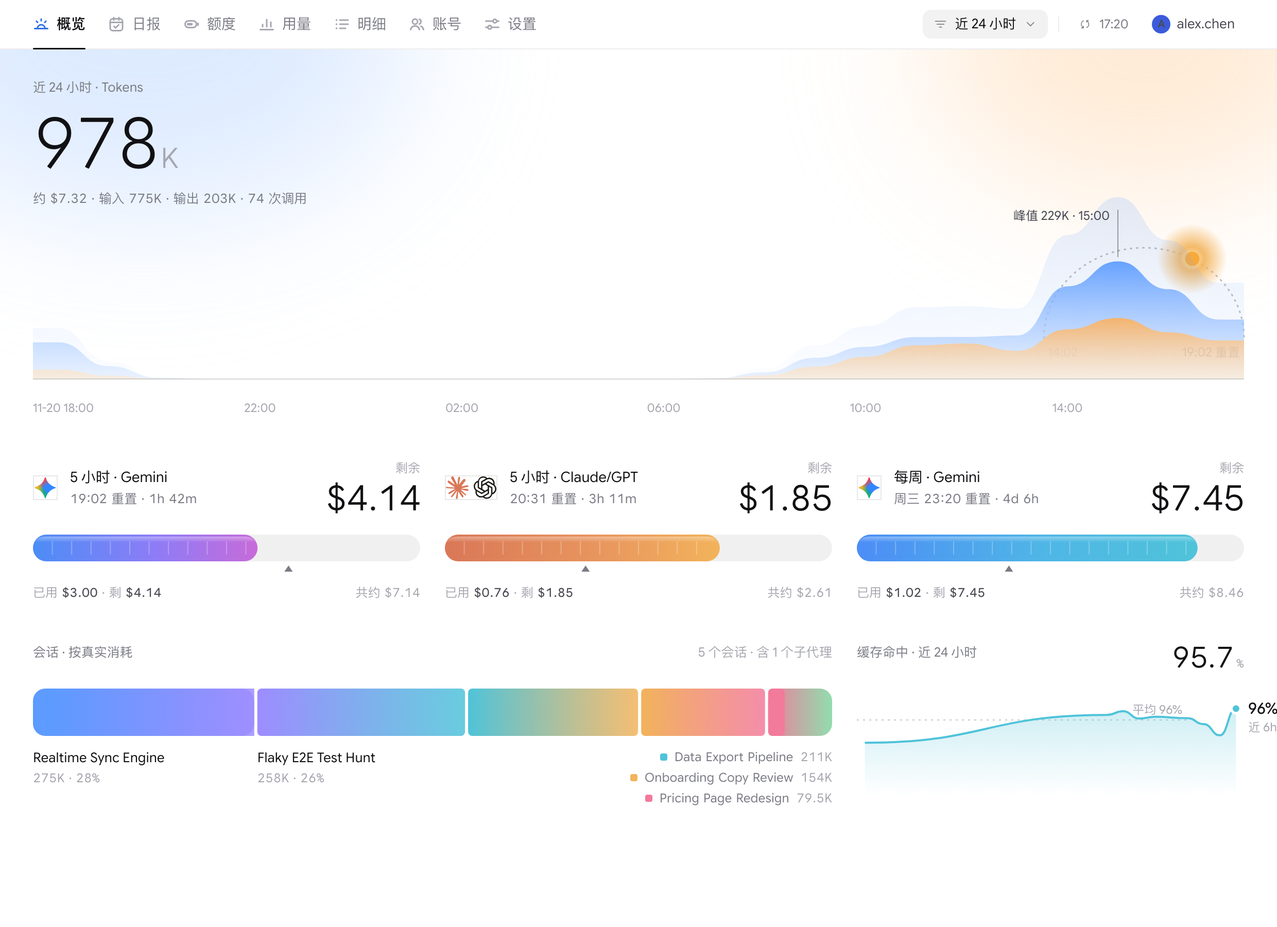
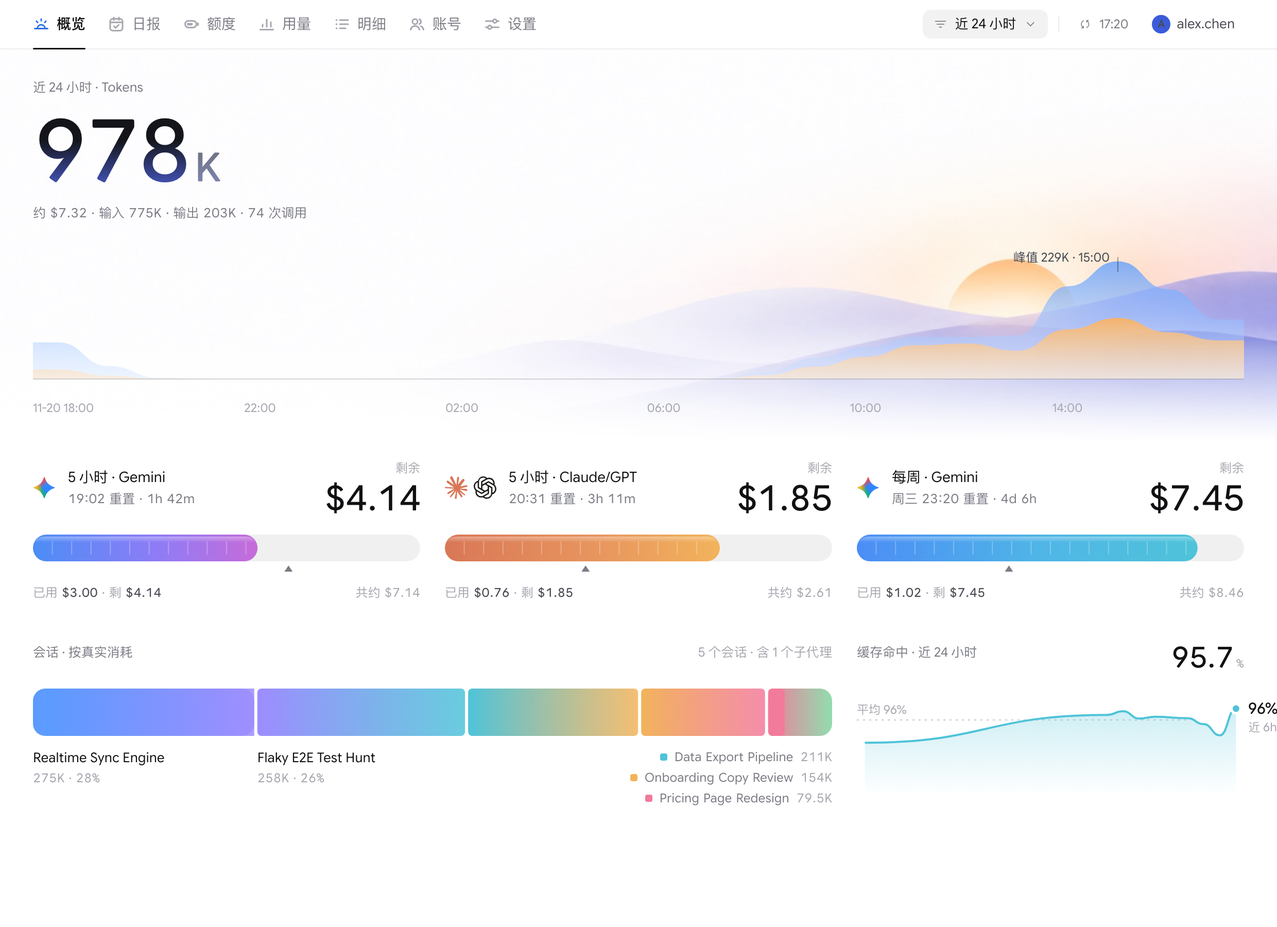
插画主视觉、更有分量的大数字、账号空状态、精简 README（浅色截图）
- 概览与账号页使用生成插画（深 / 浅两版），替换 SVG 太阳与星空
- 大数字加粗、渐变、单位同字重
- 账号页无其他账号时显示插画和三步引导
- README 只保留核心：一句话、四个要点、AI 安装提示词、四张浅色截图

diff --git a/plugin/dist/sidecars/buddy_panel/app.js b/plugin/dist/sidecars/buddy_panel/app.js
@@ -201,7 +201,7 @@ const G3 = { gemini: ['#4C8DF6', '#8E7CF6', '#C76BD9'], claude: ['#D97757', '#E8
 const PAL = ['#5B9BFF', '#9D8CFF', '#4FC3D9', '#F2B35B', '#F27A9B', '#7FD6A0'];
 const grayG = () => isLight() ? ['#D5D6DC', '#DCDDE2', '#E3E4E8'] : ['#3A3B42', '#43444B', '#4C4D54'];
 const winG = w => w.kind === '每周' ? G3.week : w.provs.has('gemini') ? G3.gemini : G3.claude;
-const tiles = logos => `<span class="tile">${logos.map(l => `<img src="${LOGO[l]}" style="width:22px;height:22px;display:block">`).join('')}</span>`;
+const tiles = logos => `<span class="lgs">${logos.map(l => `<img src="${LOGO[l]}" style="width:22px;height:22px;display:block">`).join('')}</span>`;
 const winLogos = w => [...w.provs].sort((a, b) => a === 'claude' ? -1 : 1);
 let _cid = 0;
 // 渐变胶囊：f = 填充比例；win = 窗口时间（小三角）
@@ -308,7 +308,7 @@ function landscape(bs, rs, W, H = 330) {
       <text x="${a0 + 2 * ar - 4}" y="${G - 22}" text-anchor="end" style="fill:var(--fg-2);font-size:12px">${winAt(k5)} 重置</text><text x="${a0 + 4}" y="${G - 22}" style="fill:var(--fg-4);font-size:12px">${atLocal(t0)}</text>`;
   }
   let stars = ''; if (!L2) { let sd = 7; const rnd = () => (sd = (sd * 9301 + 49297) % 233280) / 233280; for (let i = 0; i < 46; i++) stars += `<circle cx="${(rnd() * W * .78 + 20).toFixed(0)}" cy="${(rnd() * 150 + 8).toFixed(0)}" r="${(rnd() + .4).toFixed(1)}" fill="#fff" opacity="${(rnd() * .35 + .08).toFixed(2)}"/>`; }
-  const pk = tot.indexOf(Math.max(...tot)), px = X(pk), py = G - smooth(inp, n > 30 ? 1.1 : .8)[pk] / mx * sc - 4;
+  const pk = tot.indexOf(Math.max(...tot)), px = X(pk), py = G - smooth(inp, n > 30 ? 1.1 : .8)[pk] / mx * sc - 4; const ly = Math.max(178, py - 36), l0 = Math.max(188, py - 46);
   const C = L2 ? { f0: '#7FB0FF', f1: .22, m1: '#D6E6FF', o1: '#FFE9CF', m2: .5, o2: .6 } : { f0: '#5B9BFF', f1: .16, m1: '#2F5FB8', o1: '#D95926', m2: .25, o2: .35 };
   const every = Math.max(1, Math.ceil(n / 6)), labels = bs.map((b, i) => i % every === 0 && i ? `<text x="${X(i)}" y="${H - 6}" text-anchor="middle">${b.label}${b.label.length <= 2 ? ':00' : ''}</text>` : '').join('');
   const hits = bs.map((b, i) => `<rect class="hb" x="${(i / n * W).toFixed(1)}" y="0" width="${(W / n).toFixed(1)}" height="${G}" fill="transparent" ${tipA(`<span class="dim">${b.long}</span><br>${sw('#5B9BFF')}新增输入 ${fmt(g[i].in)}<br>${sw('#F2B35B')}输出 ${fmt(g[i].out)}${g[i].n ? `<br><span class="dim">缓存命中 ${Math.round(pct(g[i].cache, g[i].cache + g[i].in) * 100)}% · ${g[i].n} 次 · 约 ${fUSD(g[i].cost)} · 点击查看明细</span>` : ''}`)} ${g[i].n ? A('bucket', b.a + ',' + b.b) : ''}/>`).join('');
@@ -317,9 +317,8 @@ function landscape(bs, rs, W, H = 330) {
     <linearGradient id="mid" x1="0" y1="0" x2="0" y2="1"><stop offset="0" stop-color="#5B9BFF" stop-opacity=".92"/><stop offset="1" stop-color="${C.m1}" stop-opacity="${C.m2}"/></linearGradient>
     <linearGradient id="fr" x1="0" y1="0" x2="0" y2="1"><stop offset="0" stop-color="${L2 ? '#F7B267' : '#F2B35B'}" stop-opacity=".95"/><stop offset="1" stop-color="${C.o1}" stop-opacity="${C.o2}"/></linearGradient>
     <radialGradient id="sun" cx="50%" cy="50%" r="50%"><stop offset="0" stop-color="#FFE6B0"/><stop offset=".35" stop-color="#F2B35B" stop-opacity=".9"/><stop offset="1" stop-color="#F2B35B" stop-opacity="0"/></radialGradient></defs>
-    ${stars}${sun}
-    <path d="${ridge(tot, 1.25)}" fill="url(#far)"/><path d="${ridge(inp, 1)}" fill="url(#mid)"/><path d="${ridge(out.map(v => v * 2.2), 1)}" fill="url(#fr)"/>
-    ${tot[pk] > 0 ? `<line x1="${px}" x2="${px}" y1="${py - 46}" y2="${py}" style="stroke:${ink(.35)}"/><text x="${px > W - 180 ? px - 8 : px + 8}" y="${py - 36}" text-anchor="${px > W - 180 ? 'end' : 'start'}" style="fill:var(--fg-2);font-size:12px">峰值 ${fmt(tot[pk])} · ${bs[pk].long.split(' ').pop().split('–')[0]}</text>` : `<text x="${W / 2}" y="${G / 2}" text-anchor="middle" style="fill:var(--fg-4);font-size:13px">这段时间没有调用</text>`}
+    <path d="${ridge(inp, 1)}" fill="url(#mid)" opacity=".82"/><path d="${ridge(out.map(v => v * 2.2), 1)}" fill="url(#fr)"/>
+    ${tot[pk] > 0 ? `<line x1="${px}" x2="${px}" y1="${l0}" y2="${py}" style="stroke:${ink(.35)}"/><text x="${px > W - 180 ? px - 8 : px + 8}" y="${ly}" text-anchor="${px > W - 180 ? 'end' : 'start'}" style="fill:var(--fg-2);font-size:12px">峰值 ${fmt(tot[pk])} · ${bs[pk].long.split(' ').pop().split('–')[0]}</text>` : `<text x="${W / 2}" y="${G / 2}" text-anchor="middle" style="fill:var(--fg-4);font-size:13px">这段时间没有调用</text>`}
     <line x1="0" x2="${W}" y1="${G}" y2="${G}" style="stroke:${ink(.16)}"/>
     <text x="0" y="${H - 6}">${bs[0].long.split('–')[0]}</text>${labels}
     ${hits}</svg>`;
@@ -347,7 +346,7 @@ function cacheLine(bs, rs, W, H = 104) {
   if (pts.length < 2) return `<div class="cap" style="height:${H}px;display:grid;place-items:center">数据不足</div>`;
   const d = curve(pts), e = pts[pts.length - 1];
   return `<svg width="${W - 64}" height="${H}" style="display:block;overflow:visible;font-size:11.5px"><defs><linearGradient id="cl" x1="0" y1="0" x2="0" y2="1"><stop offset="0" stop-color="#4FC3D9" stop-opacity=".28"/><stop offset="1" stop-color="#4FC3D9" stop-opacity="0"/></linearGradient></defs>
-    <line x1="0" x2="${W - 56}" y1="${Y(avg)}" y2="${Y(avg)}" style="stroke:${ink(.22)}" stroke-dasharray="2 4"/><text x="${W - 60}" y="${Y(avg) - 6}" text-anchor="end" style="fill:var(--fg-4)">平均 ${pctS(avg)}</text>
+    <line x1="0" x2="${W - 56}" y1="${Y(avg)}" y2="${Y(avg)}" style="stroke:${ink(.22)}" stroke-dasharray="2 4"/>${Math.abs(Y(avg) - e[1]) > 18 ? `<text x="${W - 70}" y="${Y(avg) - 6}" text-anchor="end" style="fill:var(--fg-4)">平均 ${pctS(avg)}</text>` : `<text x="0" y="${Y(avg) - 6}" style="fill:var(--fg-4)">平均 ${pctS(avg)}</text>`}
     <path d="${d}L${e[0]},${H}L${pts[0][0]},${H}Z" fill="url(#cl)"/><path d="${d}" fill="none" stroke="#4FC3D9" stroke-width="2"/>
     <circle cx="${e[0]}" cy="${e[1]}" r="4.5" fill="#4FC3D9" style="stroke:var(--background)" stroke-width="2.5"/>
     ${rh != null ? `<text x="${e[0] + 12}" y="${e[1] + 5}" style="fill:var(--fg);font-size:15px;font-weight:450">${pctS(rh)}</text><text x="${e[0] + 12}" y="${e[1] + 22}" style="fill:var(--fg-4)">近 6h</text>` : ''}</svg>`;
@@ -355,8 +354,8 @@ function cacheLine(bs, rs, W, H = 104) {
 function vOverview() {
   const rs = rowsIn(), t = agg(rs), bs = buckets(), hit = pct(t.cache, t.cache + t.in), W = CW();
   const ss = groupBy(rs, 'root').sort((x, y) => y.in + y.out - x.in - x.out), real = t.in + t.out;
-  return shell(sub(filters()) + `<div class="body h2"><div class="pg">${aura()}
-    <section class="rw" style="height:330px"><div class="md" style="grid-column:1/-1">${landscape(bs, rs, W)}
+  return shell(sub(filters()) + `<div class="body h2"><div class="pg">
+    <section class="rw hero-sec" style="height:330px"><img class="hero-img" src="/illus/hero-${isLight() ? 'light' : 'dark'}.jpg" alt=""><div class="md" style="grid-column:1/-1">${landscape(bs, rs, W)}
       <div class="hero-t" ${A('metric', 'real')}><div class="lb">${rangeLabel()} · Tokens</div><div class="herov num">${unit(fmt(real))}</div><div class="sub2 num">约 ${fUSD(t.cost)} · 输入 ${fmt(t.in)} · 输出 ${fmt(t.out)} · ${comma(t.n)} 次调用</div></div></div></section>
     ${poolRow()}
     <section class="rw">
@@ -844,12 +843,12 @@ function vAccounts() {
     <section class="rw">
       <div class="md" style="grid-column:span 5">
         <div class="lb">当前账号</div>
-        <div class="row" style="gap:16px;margin-top:16px"><span class="av lg" style="background:linear-gradient(135deg,#4C8DF6,#8E7CF6)">${a.l}</span><div style="min-width:0"><div class="row" style="gap:8px;font-size:19px;font-weight:450">${a.n || a.e}${planTag(a)}</div><div class="meta"><i class="${LIVE.error ? 'bad' : ''}"></i>${LIVE.error ? '未连接' : '使用中'} · ${a.e}</div></div></div>
+        <div class="row" style="gap:16px;margin-top:16px"><span class="av lg" style="background:linear-gradient(135deg,#4C8DF6,#8E7CF6)">${a.l}</span><div style="min-width:0"><div class="row" style="gap:8px;font-size:19px;font-weight:450">${a.n || a.e}${LIVE.status?.plan ? `<span class="pill plan pro">${esc(LIVE.status.plan)}</span>` : ''}</div><div class="meta"><i class="${LIVE.error ? 'bad' : ''}"></i>${LIVE.error ? '未连接' : '使用中'} · ${a.e}</div></div></div>
         ${WINS.map((w, k) => { const v = poolView(k); return `<div class="cr num"><span class="row" style="gap:6px">${winLogos(w).map(l => `<img src="${LOGO[l]}" style="width:14px;height:14px">`).join('')}${w.kind} · ${w.who}</span><b>${v.x.ok ? `剩 ${fUSD(v.x.leftCost)}` : pctS(v.x.f)}<span style="color:var(--fg-4)"> · ${winAt(k)}</span></b></div><div ${tipA(v.tip)}>${capsule(v.x.f, v.x.f < 1 ? winG(w) : grayG(), W5, 12)}</div>`; }).join('') || '<div class="cap">读不到模型额度</div>'}
       </div>
       <div class="md" style="grid-column:7 / span 6;position:relative">
         <div class="hd"><span class="lb">其他账号 · 点切换会重启 Antigravity</span><span class="lk" style="font-size:12.5px" ${A('accAsk', '+')}>${ic('add', 15)}添加账号</span></div>
-        ${others.length ? others.map(e => accRow(e)).join('') : `<div class="cap" style="margin-top:14px;line-height:1.7">还没有其他账号。点「添加账号」，Antigravity 会重启到登录页，登录另一个 Google 账号后 Buddy 会自动记下它，之后一键切换。</div>`}
+        ${others.length ? others.map(e => accRow(e)).join('') : `<div class="acc-empty"><img src="/illus/accounts-${isLight() ? 'light' : 'dark'}.jpg" alt=""><div><div style="font-size:17px;font-weight:450">把常用的账号都放进来</div><ol style="margin-top:14px"><li>点「添加账号」，Antigravity 重启到登录页</li><li>用另一个 Google 账号登录</li><li>回到这里，一键切换，不用再输密码</li></ol><span class="btn2 p" style="margin-top:18px" ${A('accAsk', '+')}>${ic('add', 15)}添加账号</span></div></div>`}
         ${accPop()}
         <div class="ur" style="border:0;height:auto;margin-top:22px;gap:24px">${u.map(([l, g]) => `<div><div class="lb">${l}</div><div class="kn num" style="font-size:22px;margin-top:6px">${fUSD(g.cost)}</div><div class="num dim" style="font-size:12px;margin-top:4px">${fmt(g.in + g.out)} · ${comma(g.n)} 次</div></div>`).join('')}</div>
       </div>

diff --git a/plugin/src/overview.js b/plugin/src/overview.js
@@ -15,7 +15,7 @@ function landscape(bs, rs, W, H = 330) {
       <text x="${a0 + 2 * ar - 4}" y="${G - 22}" text-anchor="end" style="fill:var(--fg-2);font-size:12px">${winAt(k5)} 重置</text><text x="${a0 + 4}" y="${G - 22}" style="fill:var(--fg-4);font-size:12px">${atLocal(t0)}</text>`;
   }
   let stars = ''; if (!L2) { let sd = 7; const rnd = () => (sd = (sd * 9301 + 49297) % 233280) / 233280; for (let i = 0; i < 46; i++) stars += `<circle cx="${(rnd() * W * .78 + 20).toFixed(0)}" cy="${(rnd() * 150 + 8).toFixed(0)}" r="${(rnd() + .4).toFixed(1)}" fill="#fff" opacity="${(rnd() * .35 + .08).toFixed(2)}"/>`; }
-  const pk = tot.indexOf(Math.max(...tot)), px = X(pk), py = G - smooth(inp, n > 30 ? 1.1 : .8)[pk] / mx * sc - 4;
+  const pk = tot.indexOf(Math.max(...tot)), px = X(pk), py = G - smooth(inp, n > 30 ? 1.1 : .8)[pk] / mx * sc - 4; const ly = Math.max(178, py - 36), l0 = Math.max(188, py - 46);
   const C = L2 ? { f0: '#7FB0FF', f1: .22, m1: '#D6E6FF', o1: '#FFE9CF', m2: .5, o2: .6 } : { f0: '#5B9BFF', f1: .16, m1: '#2F5FB8', o1: '#D95926', m2: .25, o2: .35 };
   const every = Math.max(1, Math.ceil(n / 6)), labels = bs.map((b, i) => i % every === 0 && i ? `<text x="${X(i)}" y="${H - 6}" text-anchor="middle">${b.label}${b.label.length <= 2 ? ':00' : ''}</text>` : '').join('');
   const hits = bs.map((b, i) => `<rect class="hb" x="${(i / n * W).toFixed(1)}" y="0" width="${(W / n).toFixed(1)}" height="${G}" fill="transparent" ${tipA(`<span class="dim">${b.long}</span><br>${sw('#5B9BFF')}新增输入 ${fmt(g[i].in)}<br>${sw('#F2B35B')}输出 ${fmt(g[i].out)}${g[i].n ? `<br><span class="dim">缓存命中 ${Math.round(pct(g[i].cache, g[i].cache + g[i].in) * 100)}% · ${g[i].n} 次 · 约 ${fUSD(g[i].cost)} · 点击查看明细</span>` : ''}`)} ${g[i].n ? A('bucket', b.a + ',' + b.b) : ''}/>`).join('');
@@ -24,9 +24,8 @@ function landscape(bs, rs, W, H = 330) {
     <linearGradient id="mid" x1="0" y1="0" x2="0" y2="1"><stop offset="0" stop-color="#5B9BFF" stop-opacity=".92"/><stop offset="1" stop-color="${C.m1}" stop-opacity="${C.m2}"/></linearGradient>
     <linearGradient id="fr" x1="0" y1="0" x2="0" y2="1"><stop offset="0" stop-color="${L2 ? '#F7B267' : '#F2B35B'}" stop-opacity=".95"/><stop offset="1" stop-color="${C.o1}" stop-opacity="${C.o2}"/></linearGradient>
     <radialGradient id="sun" cx="50%" cy="50%" r="50%"><stop offset="0" stop-color="#FFE6B0"/><stop offset=".35" stop-color="#F2B35B" stop-opacity=".9"/><stop offset="1" stop-color="#F2B35B" stop-opacity="0"/></radialGradient></defs>
-    ${stars}${sun}
-    <path d="${ridge(tot, 1.25)}" fill="url(#far)"/><path d="${ridge(inp, 1)}" fill="url(#mid)"/><path d="${ridge(out.map(v => v * 2.2), 1)}" fill="url(#fr)"/>
-    ${tot[pk] > 0 ? `<line x1="${px}" x2="${px}" y1="${py - 46}" y2="${py}" style="stroke:${ink(.35)}"/><text x="${px > W - 180 ? px - 8 : px + 8}" y="${py - 36}" text-anchor="${px > W - 180 ? 'end' : 'start'}" style="fill:var(--fg-2);font-size:12px">峰值 ${fmt(tot[pk])} · ${bs[pk].long.split(' ').pop().split('–')[0]}</text>` : `<text x="${W / 2}" y="${G / 2}" text-anchor="middle" style="fill:var(--fg-4);font-size:13px">这段时间没有调用</text>`}
+    <path d="${ridge(inp, 1)}" fill="url(#mid)" opacity=".82"/><path d="${ridge(out.map(v => v * 2.2), 1)}" fill="url(#fr)"/>
+    ${tot[pk] > 0 ? `<line x1="${px}" x2="${px}" y1="${l0}" y2="${py}" style="stroke:${ink(.35)}"/><text x="${px > W - 180 ? px - 8 : px + 8}" y="${ly}" text-anchor="${px > W - 180 ? 'end' : 'start'}" style="fill:var(--fg-2);font-size:12px">峰值 ${fmt(tot[pk])} · ${bs[pk].long.split(' ').pop().split('–')[0]}</text>` : `<text x="${W / 2}" y="${G / 2}" text-anchor="middle" style="fill:var(--fg-4);font-size:13px">这段时间没有调用</text>`}
     <line x1="0" x2="${W}" y1="${G}" y2="${G}" style="stroke:${ink(.16)}"/>
     <text x="0" y="${H - 6}">${bs[0].long.split('–')[0]}</text>${labels}
     ${hits}</svg>`;
@@ -54,7 +53,7 @@ function cacheLine(bs, rs, W, H = 104) {
   if (pts.length < 2) return `<div class="cap" style="height:${H}px;display:grid;place-items:center">数据不足</div>`;
   const d = curve(pts), e = pts[pts.length - 1];
   return `<svg width="${W - 64}" height="${H}" style="display:block;overflow:visible;font-size:11.5px"><defs><linearGradient id="cl" x1="0" y1="0" x2="0" y2="1"><stop offset="0" stop-color="#4FC3D9" stop-opacity=".28"/><stop offset="1" stop-color="#4FC3D9" stop-opacity="0"/></linearGradient></defs>
-    <line x1="0" x2="${W - 56}" y1="${Y(avg)}" y2="${Y(avg)}" style="stroke:${ink(.22)}" stroke-dasharray="2 4"/><text x="${W - 60}" y="${Y(avg) - 6}" text-anchor="end" style="fill:var(--fg-4)">平均 ${pctS(avg)}</text>
+    <line x1="0" x2="${W - 56}" y1="${Y(avg)}" y2="${Y(avg)}" style="stroke:${ink(.22)}" stroke-dasharray="2 4"/>${Math.abs(Y(avg) - e[1]) > 18 ? `<text x="${W - 70}" y="${Y(avg) - 6}" text-anchor="end" style="fill:var(--fg-4)">平均 ${pctS(avg)}</text>` : `<text x="0" y="${Y(avg) - 6}" style="fill:var(--fg-4)">平均 ${pctS(avg)}</text>`}
     <path d="${d}L${e[0]},${H}L${pts[0][0]},${H}Z" fill="url(#cl)"/><path d="${d}" fill="none" stroke="#4FC3D9" stroke-width="2"/>
     <circle cx="${e[0]}" cy="${e[1]}" r="4.5" fill="#4FC3D9" style="stroke:var(--background)" stroke-width="2.5"/>
     ${rh != null ? `<text x="${e[0] + 12}" y="${e[1] + 5}" style="fill:var(--fg);font-size:15px;font-weight:450">${pctS(rh)}</text><text x="${e[0] + 12}" y="${e[1] + 22}" style="fill:var(--fg-4)">近 6h</text>` : ''}</svg>`;
@@ -62,8 +61,8 @@ function cacheLine(bs, rs, W, H = 104) {
 function vOverview() {
   const rs = rowsIn(), t = agg(rs), bs = buckets(), hit = pct(t.cache, t.cache + t.in), W = CW();
   const ss = groupBy(rs, 'root').sort((x, y) => y.in + y.out - x.in - x.out), real = t.in + t.out;
-  return shell(sub(filters()) + `<div class="body h2"><div class="pg">${aura()}
-    <section class="rw" style="height:330px"><div class="md" style="grid-column:1/-1">${landscape(bs, rs, W)}
+  return shell(sub(filters()) + `<div class="body h2"><div class="pg">
+    <section class="rw hero-sec" style="height:330px"><img class="hero-img" src="/illus/hero-${isLight() ? 'light' : 'dark'}.jpg" alt=""><div class="md" style="grid-column:1/-1">${landscape(bs, rs, W)}
       <div class="hero-t" ${A('metric', 'real')}><div class="lb">${rangeLabel()} · Tokens</div><div class="herov num">${unit(fmt(real))}</div><div class="sub2 num">约 ${fUSD(t.cost)} · 输入 ${fmt(t.in)} · 输出 ${fmt(t.out)} · ${comma(t.n)} 次调用</div></div></div></section>
     ${poolRow()}
     <section class="rw">

diff --git a/plugin/src/accounts.js b/plugin/src/accounts.js
@@ -59,12 +59,12 @@ function vAccounts() {
     <section class="rw">
       <div class="md" style="grid-column:span 5">
         <div class="lb">当前账号</div>
-        <div class="row" style="gap:16px;margin-top:16px"><span class="av lg" style="background:linear-gradient(135deg,#4C8DF6,#8E7CF6)">${a.l}</span><div style="min-width:0"><div class="row" style="gap:8px;font-size:19px;font-weight:450">${a.n || a.e}${planTag(a)}</div><div class="meta"><i class="${LIVE.error ? 'bad' : ''}"></i>${LIVE.error ? '未连接' : '使用中'} · ${a.e}</div></div></div>
+        <div class="row" style="gap:16px;margin-top:16px"><span class="av lg" style="background:linear-gradient(135deg,#4C8DF6,#8E7CF6)">${a.l}</span><div style="min-width:0"><div class="row" style="gap:8px;font-size:19px;font-weight:450">${a.n || a.e}${LIVE.status?.plan ? `<span class="pill plan pro">${esc(LIVE.status.plan)}</span>` : ''}</div><div class="meta"><i class="${LIVE.error ? 'bad' : ''}"></i>${LIVE.error ? '未连接' : '使用中'} · ${a.e}</div></div></div>
         ${WINS.map((w, k) => { const v = poolView(k); return `<div class="cr num"><span class="row" style="gap:6px">${winLogos(w).map(l => `<img src="${LOGO[l]}" style="width:14px;height:14px">`).join('')}${w.kind} · ${w.who}</span><b>${v.x.ok ? `剩 ${fUSD(v.x.leftCost)}` : pctS(v.x.f)}<span style="color:var(--fg-4)"> · ${winAt(k)}</span></b></div><div ${tipA(v.tip)}>${capsule(v.x.f, v.x.f < 1 ? winG(w) : grayG(), W5, 12)}</div>`; }).join('') || '<div class="cap">读不到模型额度</div>'}
       </div>
       <div class="md" style="grid-column:7 / span 6;position:relative">
         <div class="hd"><span class="lb">其他账号 · 点切换会重启 Antigravity</span><span class="lk" style="font-size:12.5px" ${A('accAsk', '+')}>${ic('add', 15)}添加账号</span></div>
-        ${others.length ? others.map(e => accRow(e)).join('') : `<div class="cap" style="margin-top:14px;line-height:1.7">还没有其他账号。点「添加账号」，Antigravity 会重启到登录页，登录另一个 Google 账号后 Buddy 会自动记下它，之后一键切换。</div>`}
+        ${others.length ? others.map(e => accRow(e)).join('') : `<div class="acc-empty"><img src="/illus/accounts-${isLight() ? 'light' : 'dark'}.jpg" alt=""><div><div style="font-size:17px;font-weight:450">把常用的账号都放进来</div><ol style="margin-top:14px"><li>点「添加账号」，Antigravity 重启到登录页</li><li>用另一个 Google 账号登录</li><li>回到这里，一键切换，不用再输密码</li></ol><span class="btn2 p" style="margin-top:18px" ${A('accAsk', '+')}>${ic('add', 15)}添加账号</span></div></div>`}
         ${accPop()}
         <div class="ur" style="border:0;height:auto;margin-top:22px;gap:24px">${u.map(([l, g]) => `<div><div class="lb">${l}</div><div class="kn num" style="font-size:22px;margin-top:6px">${fUSD(g.cost)}</div><div class="num dim" style="font-size:12px;margin-top:4px">${fmt(g.in + g.out)} · ${comma(g.n)} 次</div></div>`).join('')}</div>
       </div>

diff --git a/plugin/dist/sidecars/buddy_panel/styles.css b/plugin/dist/sidecars/buddy_panel/styles.css
@@ -326,7 +326,7 @@ body.light .nt{box-shadow:0 0 0 1px rgb(0 0 0/.06),0 18px 40px -14px rgb(0 0 0/.
 /* 设置：主题缩略图 */
 .th{display:flex;gap:14px;margin-top:14px}.th>div{text-align:center;font-size:12px;color:var(--fg-3);cursor:pointer}
 .th svg{display:block;border-radius:9px;margin-bottom:8px}.th .on svg{box-shadow:0 0 0 2px #2F71E3}.th .on{color:var(--fg)}
-.h2 .tile,.tile{width:auto!important;height:auto!important;background:none!important;box-shadow:none!important;padding:0!important;border-radius:0!important}
+.lgs{display:flex;align-items:center;gap:6px;flex:none}
 
 .ar{display:flex;align-items:center;gap:12px;height:62px;padding:0 12px;margin:0 -12px;border-radius:12px}.ar:hover,.ar.hov{background:var(--hover)}
 .ar .em{font-size:13.5px}.ar .pc{font-size:12.5px;width:36px;text-align:right}.av.sm{width:32px;height:32px;font-size:13px}
@@ -346,3 +346,19 @@ tr.xd td{height:auto;padding:0;border-bottom:1px solid var(--border)}
 .kv2 .dot{display:inline-block;width:8px;height:8px;border-radius:50%;margin-right:8px}
 .wkg{display:grid;grid-template-columns:repeat(7,1fr);gap:6px}.wkg i{height:14px;border-radius:5px}
 .rep .st .d{margin-top:10px}
+
+/* 生成插画 */
+.hero-sec{position:relative}
+.hero-img{position:absolute;right:-32px;top:-28px;width:calc(100% + 64px);height:380px;object-fit:cover;object-position:right bottom;pointer-events:none;z-index:0;-webkit-mask-image:linear-gradient(180deg,#000 70%,transparent)}
+.hero-sec>.md{position:relative;z-index:1}
+/* 大数字：更有分量 */
+.herov{font-size:84px;font-weight:500;letter-spacing:-.045em;line-height:.95;margin-top:14px;font-variation-settings:"ROND" 30,"wdth" 100;background:linear-gradient(180deg,#FFFFFF 30%,#A9B8FF);-webkit-background-clip:text;background-clip:text;color:transparent}
+body.light .herov{background:linear-gradient(180deg,#14151A 35%,#4C5FD5);-webkit-background-clip:text;background-clip:text}
+.herov small{font-size:.46em;font-weight:500;margin-left:6px;letter-spacing:-.01em;opacity:.6}
+.kn{font-weight:450}
+.acc-empty{display:flex;gap:28px;align-items:center;margin-top:18px}
+.acc-empty img{width:168px;height:168px;border-radius:24px;object-fit:cover;flex:none}
+.acc-empty ol{list-style:none;counter-reset:s;display:flex;flex-direction:column;gap:10px;font-size:13px;color:var(--fg-2)}
+.acc-empty li{counter-increment:s;display:flex;gap:10px;align-items:baseline}.acc-empty li:before{content:counter(s);font-size:11px;width:18px;height:18px;border-radius:50%;display:inline-grid;place-items:center;flex:none;background:var(--secondary);color:var(--fg-3)}
+body.light .pill.plan{color:#2F71E3;background:rgb(47 113 227/.1);border-color:transparent}
+body.light .acc-empty img{mix-blend-mode:multiply}

diff --git a/plugin/src/styles.css b/plugin/src/styles.css
@@ -326,7 +326,7 @@ body.light .nt{box-shadow:0 0 0 1px rgb(0 0 0/.06),0 18px 40px -14px rgb(0 0 0/.
 /* 设置：主题缩略图 */
 .th{display:flex;gap:14px;margin-top:14px}.th>div{text-align:center;font-size:12px;color:var(--fg-3);cursor:pointer}
 .th svg{display:block;border-radius:9px;margin-bottom:8px}.th .on svg{box-shadow:0 0 0 2px #2F71E3}.th .on{color:var(--fg)}
-.h2 .tile,.tile{width:auto!important;height:auto!important;background:none!important;box-shadow:none!important;padding:0!important;border-radius:0!important}
+.lgs{display:flex;align-items:center;gap:6px;flex:none}
 
 .ar{display:flex;align-items:center;gap:12px;height:62px;padding:0 12px;margin:0 -12px;border-radius:12px}.ar:hover,.ar.hov{background:var(--hover)}
 .ar .em{font-size:13.5px}.ar .pc{font-size:12.5px;width:36px;text-align:right}.av.sm{width:32px;height:32px;font-size:13px}
@@ -346,3 +346,19 @@ tr.xd td{height:auto;padding:0;border-bottom:1px solid var(--border)}
 .kv2 .dot{display:inline-block;width:8px;height:8px;border-radius:50%;margin-right:8px}
 .wkg{display:grid;grid-template-columns:repeat(7,1fr);gap:6px}.wkg i{height:14px;border-radius:5px}
 .rep .st .d{margin-top:10px}
+
+/* 生成插画 */
+.hero-sec{position:relative}
+.hero-img{position:absolute;right:-32px;top:-28px;width:calc(100% + 64px);height:380px;object-fit:cover;object-position:right bottom;pointer-events:none;z-index:0;-webkit-mask-image:linear-gradient(180deg,#000 70%,transparent)}
+.hero-sec>.md{position:relative;z-index:1}
+/* 大数字：更有分量 */
+.herov{font-size:84px;font-weight:500;letter-spacing:-.045em;line-height:.95;margin-top:14px;font-variation-settings:"ROND" 30,"wdth" 100;background:linear-gradient(180deg,#FFFFFF 30%,#A9B8FF);-webkit-background-clip:text;background-clip:text;color:transparent}
+body.light .herov{background:linear-gradient(180deg,#14151A 35%,#4C5FD5);-webkit-background-clip:text;background-clip:text}
+.herov small{font-size:.46em;font-weight:500;margin-left:6px;letter-spacing:-.01em;opacity:.6}
+.kn{font-weight:450}
+.acc-empty{display:flex;gap:28px;align-items:center;margin-top:18px}
+.acc-empty img{width:168px;height:168px;border-radius:24px;object-fit:cover;flex:none}
+.acc-empty ol{list-style:none;counter-reset:s;display:flex;flex-direction:column;gap:10px;font-size:13px;color:var(--fg-2)}
+.acc-empty li{counter-increment:s;display:flex;gap:10px;align-items:baseline}.acc-empty li:before{content:counter(s);font-size:11px;width:18px;height:18px;border-radius:50%;display:inline-grid;place-items:center;flex:none;background:var(--secondary);color:var(--fg-3)}
+body.light .pill.plan{color:#2F71E3;background:rgb(47 113 227/.1);border-color:transparent}
+body.light .acc-empty img{mix-blend-mode:multiply}

diff --git a/plugin/src/h2.js b/plugin/src/h2.js
@@ -32,7 +32,7 @@ const G3 = { gemini: ['#4C8DF6', '#8E7CF6', '#C76BD9'], claude: ['#D97757', '#E8
 const PAL = ['#5B9BFF', '#9D8CFF', '#4FC3D9', '#F2B35B', '#F27A9B', '#7FD6A0'];
 const grayG = () => isLight() ? ['#D5D6DC', '#DCDDE2', '#E3E4E8'] : ['#3A3B42', '#43444B', '#4C4D54'];
 const winG = w => w.kind === '每周' ? G3.week : w.provs.has('gemini') ? G3.gemini : G3.claude;
-const tiles = logos => `<span class="tile">${logos.map(l => `<img src="${LOGO[l]}" style="width:22px;height:22px;display:block">`).join('')}</span>`;
+const tiles = logos => `<span class="lgs">${logos.map(l => `<img src="${LOGO[l]}" style="width:22px;height:22px;display:block">`).join('')}</span>`;
 const winLogos = w => [...w.provs].sort((a, b) => a === 'claude' ? -1 : 1);
 let _cid = 0;
 // 渐变胶囊：f = 填充比例；win = 窗口时间（小三角）

diff --git a/README.md b/README.md
@@ -1,170 +1,57 @@
 <div align="center">
-  <img src="assets/logo.svg" width="72" height="72" alt="AntigravityBuddy">
+  <img src="assets/logo.svg" width="64" height="64" alt="AntigravityBuddy">
   <h1>AntigravityBuddy</h1>
-  <p><strong>Antigravity 的用量、额度与多账号面板</strong><br>还剩多少美元、什么时候恢复、花在了哪里，一眼看清。</p>
-
-  <p>
-    <a href="https://github.com/lmk1010/AntigravityBuddy/releases"><img src="https://img.shields.io/github/v/release/lmk1010/AntigravityBuddy?style=flat-square&color=8b8bf5" alt="Release"></a>
-    <a href="#安装"><img src="https://img.shields.io/badge/platform-macOS-lightgrey?style=flat-square" alt="Platform"></a>
-    <a href="#安装"><img src="https://img.shields.io/badge/node-%E2%89%A518-3c873a?style=flat-square" alt="Node"></a>
-    <a href="LICENSE"><img src="https://img.shields.io/github/license/lmk1010/AntigravityBuddy?style=flat-square" alt="License"></a>
-    <a href="https://github.com/lmk1010/AntigravityBuddy/stargazers"><img src="https://img.shields.io/github/stars/lmk1010/AntigravityBuddy?style=flat-square" alt="Stars"></a>
-  </p>
+  <p>Antigravity 的额度、用量与多账号面板</p>
 </div>
 
-<picture>
-  <source media="(prefers-color-scheme: light)" srcset="assets/screenshots/overview-light.png">
-  <img src="assets/screenshots/overview-dark.png" alt="概览">
-</picture>
+![概览](assets/screenshots/overview-light.png)
 
-<sub>截图为演示数据，不含任何真实账号或会话。</sub>
+- **还剩多少**：每个额度池剩多少美元、几点恢复
+- **花在哪**：按会话、按模型看 token 和成本
+- **今天做了什么**：日报 / 周报，下班提醒
+- **多账号**：一键切换 Google 账号
 
-Antigravity 不告诉你订阅还剩多少、什么时候恢复、这周烧在了哪里。Buddy 是一个 Antigravity 官方插件，读取本机的额度接口和会话记录，把这些摊在一屏里。所有数据只在本机读取，不发送到任何服务器。
-
-## 用 AI 一键安装
-
-把下面这段话原样发给 Antigravity、Claude Code、Codex 或任何能执行命令的 AI 助手，它会帮你装好：
-
-```text
-请帮我安装 AntigravityBuddy（Antigravity 的用量与额度插件），按以下步骤执行，每一步失败就停下来告诉我原因：
-
-1. 确认环境：这是 macOS；`/Applications/Antigravity.app` 存在；`python3 --version` 和 `node --version`（需要 18 以上）都能运行。缺 Node 就用 `brew install node` 安装。
-2. 下载：`git clone https://github.com/lmk1010/AntigravityBuddy.git ~/AntigravityBuddy`（目录已存在就进去执行 `git pull`）。
-3. 安装：`cd ~/AntigravityBuddy && ./plugin/install.sh`。成功时会输出 `installed to ~/.gemini/config/plugins/buddy/...`。
-4. 验证：`ls ~/.gemini/config/plugins/buddy/sidecars/buddy_panel/` 里应有 `main.mjs`、`app.js`、`index.html`、`styles.css` 和 `lib/` 目录。
-5. 告诉我：在 Antigravity 左侧栏 Extensions 里点 **Buddy** 打开面板；如果没看到，完全退出 Antigravity（⌘Q）再打开。
-
-不要修改 Antigravity 本身的任何文件，也不要改动我的登录信息。
-```
-
-## 功能
-
-| 页面 | 内容 |
-| --- | --- |
-| **概览** | 一段时间的 token 走势，最紧张的 5 小时窗口画成太阳弧；每个额度池剩多少美元、共约多少、几点恢复；会话占比；缓存命中率 |
-| **日报** | 今天 / 本周工作了多久、推进了哪些会话、花了多少，与昨天 / 上周同期对比；工作日下班时提醒，一键复制成 Markdown |
-| **额度** | 每个额度池的剩余美元与恢复时间；每个模型平均一次多少钱、按剩余额度还能调用几次；全部模型清单 |
-| **用量** | 调用、输入、缓存、输出、真实消耗、成本六项指标（带环比）；主图可切柱状 / 折线 / 面积，可按类型 / 模型 / 会话拆分；缓存命中、解码速度、上下文走势 |
-| **明细** | 每次调用一行：模型、首字延迟、解码速度、缓存命中、成本；时间带按会话着色，点击筛选时段；可导出 CSV |
-| **账号** | 多个 Google 账号一键切换；每个账号最近一次的额度和恢复时间，哪个号还有余量一眼看出 |
-| **设置** | 深色 / 浅色 / 跟随系统；日报提醒时间；时区、数字格式；输入框控件 |
-
-另有可选的**输入框控件**（设置 → 输入框控件）：在 Antigravity 输入框右侧显示上下文占用、解码速度和当前模型额度，点开上下文圆环可以看到系统提示、工具、对话、子代理各占多少。它需要以调试模式启动 Antigravity，默认关闭。
-
-## 截图
-
-<sub>全部为演示数据。深色 / 浅色随 GitHub 主题切换。</sub>
-
-**日报**
-
-<picture>
-  <source media="(prefers-color-scheme: light)" srcset="assets/screenshots/report-light.png">
-  <img src="assets/screenshots/report-dark.png" alt="日报">
-</picture>
-
-**额度**
-
-<picture>
-  <source media="(prefers-color-scheme: light)" srcset="assets/screenshots/quota-light.png">
-  <img src="assets/screenshots/quota-dark.png" alt="额度">
-</picture>
-
-**用量**
-
-<picture>
-  <source media="(prefers-color-scheme: light)" srcset="assets/screenshots/tokens-light.png">
-  <img src="assets/screenshots/tokens-dark.png" alt="用量">
-</picture>
-
-**明细**
-
-<picture>
-  <source media="(prefers-color-scheme: light)" srcset="assets/screenshots/ledger-light.png">
-  <img src="assets/screenshots/ledger-dark.png" alt="明细">
-</picture>
-
-**账号**
-
-<picture>
-  <source media="(prefers-color-scheme: light)" srcset="assets/screenshots/accounts-light.png">
-  <img src="assets/screenshots/accounts-dark.png" alt="账号">
-</picture>
-
-**设置**
-
-<picture>
-  <source media="(prefers-color-scheme: light)" srcset="assets/screenshots/settings-light.png">
-  <img src="assets/screenshots/settings-dark.png" alt="设置">
-</picture>
+数据只在本机读取，不上传。
 
 ## 安装
 
-需要 macOS、Antigravity 桌面版、Python 3 和 Node.js 18 以上。
+把这段话发给 Antigravity、Claude Code 或 Codex，它会帮你装好：
 
-```sh
-git clone https://github.com/lmk1010/AntigravityBuddy.git
-cd AntigravityBuddy
-./plugin/install.sh
+```text
+帮我安装 AntigravityBuddy：
+1. 确认是 macOS，已装 Antigravity、python3 和 Node.js 18+（缺 Node 用 brew install node）
+2. git clone https://github.com/lmk1010/AntigravityBuddy.git ~/AntigravityBuddy（已存在就 git pull）
+3. cd ~/AntigravityBuddy && ./plugin/install.sh
+4. 告诉我：在 Antigravity 左侧 Extensions 里点 Buddy 打开；没看到就 ⌘Q 重开
+不要改动 Antigravity 本身的文件和我的登录信息。
 ```
 
-脚本把 `plugin/src` 打包，安装到 `~/.gemini/config/plugins/buddy`，并刷新已经打开的面板。之后在 Antigravity 左侧栏 Extensions 里打开 **Buddy**。
+或者自己装：
 
-更新：`git pull && ./plugin/install.sh`。卸载：删除 `~/.gemini/config/plugins/buddy`。
+```sh
+git clone https://github.com/lmk1010/AntigravityBuddy.git && cd AntigravityBuddy && ./plugin/install.sh
+```
 
-## 多账号怎么用
+## 截图
 
-1. 打开 **账号** 页，点 **添加账号**。Antigravity 会重启到登录页，用另一个 Google 账号登录。
-2. Buddy 会自动记下每个登录过的账号。之后在账号页点 **切换**，Antigravity 自动重启并换到那个账号，不需要重新输入密码。
-3. 不在用的账号会显示最近一次看到的额度和恢复时间，方便挑一个有余量的号。
-
-登录信息保存在 macOS 钥匙串（服务名 `buddy-accounts`），不会写进任何文件；`~/.gemini/antigravity/plugin_data/buddy/accounts.json` 只记邮箱、时间和额度读数。切换时正在生成的回复会中断。
-
-## 工作原理
-
-Buddy 是 Antigravity 的官方 sidecar 插件，跑在宿主进程里，本地接口地址和令牌由宿主注入，无需配置。
-
-| 数据 | 来源 |
+| 日报 | 账号 |
 | --- | --- |
-| 账号、各模型剩余比例与恢复时间 | 本地 RPC：`GetUserStatus`、`GetAvailableModels` |
-| 逐次调用的 token | `~/.gemini/antigravity/brain/<会话>/.system_generated/logs/transcript.jsonl` |
-| 首字延迟、流式耗时、确切模型、上下文构成 | 本地 RPC：`GetCascadeTrajectoryGeneratorMetadata` |
-| 会话标题、父子关系 | `~/.gemini/antigravity/conversation_summaries.db`（只读） |
-| 账号登录（切换用） | macOS 钥匙串：Antigravity 的 `gemini` 项，Buddy 另存到 `buddy-accounts` |
+| ![日报](assets/screenshots/report-light.png) | ![账号](assets/screenshots/accounts-light.png) |
+| **额度** | **明细** |
+| ![额度](assets/screenshots/quota-light.png) | ![明细](assets/screenshots/ledger-light.png) |
 
-解析结果缓存在 `~/.gemini/antigravity/plugin_data/buddy/`，Antigravity 清掉旧会话后统计仍在。
+<details>
+<summary>更多</summary>
 
-## 开发
+**多账号**：账号页点「添加账号」，Antigravity 重启到登录页，登录另一个账号即可。登录信息存在 macOS 钥匙串（`buddy-accounts`），之后一键切换。
 
-```sh
-cd plugin && python3 build.py          # 打包 src 到 dist
-./install.sh                           # 打包并安装
-```
+**数据来源**：Antigravity 本地接口（额度、模型）和 `~/.gemini/antigravity/brain` 下的会话记录。成本按 API 公开价估算。
 
-本地调试（Antigravity 需在运行）：
+**开发**：`cd plugin && ./install.sh` 打包安装；`DEMO=1 node plugin/dist/sidecars/buddy_panel/dev.mjs` 用演示数据预览。
 
-```sh
-./tools/probe.sh                       # 找到本地接口端口与令牌
-cd plugin/dist/sidecars/buddy_panel
-ANTIGRAVITY_LS_ADDRESS=127.0.0.1:<port> ANTIGRAVITY_CSRF_TOKEN=<token> node dev.mjs
-# 打开 http://localhost:4599/?tab=overview&theme=1
+**更新 / 卸载**：`git pull && ./plugin/install.sh`；删除 `~/.gemini/config/plugins/buddy`。
 
-DEMO=1 DEMO_AT=17:20 PORT=4600 node dev.mjs   # 演示数据，截图用；页面加 &at=17:20
-```
-
-| 路径 | 内容 |
-| --- | --- |
-| `plugin/src` | 前端，无框架，按页面拆分 |
-| `plugin/dist/sidecars/buddy_panel` | 服务端：`main.mjs`；`lib/data.mjs` 数据、`lib/accounts.mjs` 多账号、`lib/native.mjs` + `lib/inject.js` 输入框控件、`lib/demo.mjs` 演示数据 |
-| `design` | 设计稿与截图 |
-| `docs` | Antigravity 本地接口与数据格式笔记 |
-| `tools` | 探测、重载、调试脚本 |
-
-## 已知限制
-
-- 成本按 API 公开价换算，订阅本身不按此计费，用于横向比较。
-- 额度对应的美元数由「本窗口已花 ÷ 已用比例」推算，用得太少时不估。
-- 多账号切换只支持 macOS；按账号固定出口 IP 尚未实现。
-- 只统计本机会话；依赖 Antigravity 的本地接口，宿主大版本更新后可能需要适配。
+</details>
 
 ## 许可证
 
